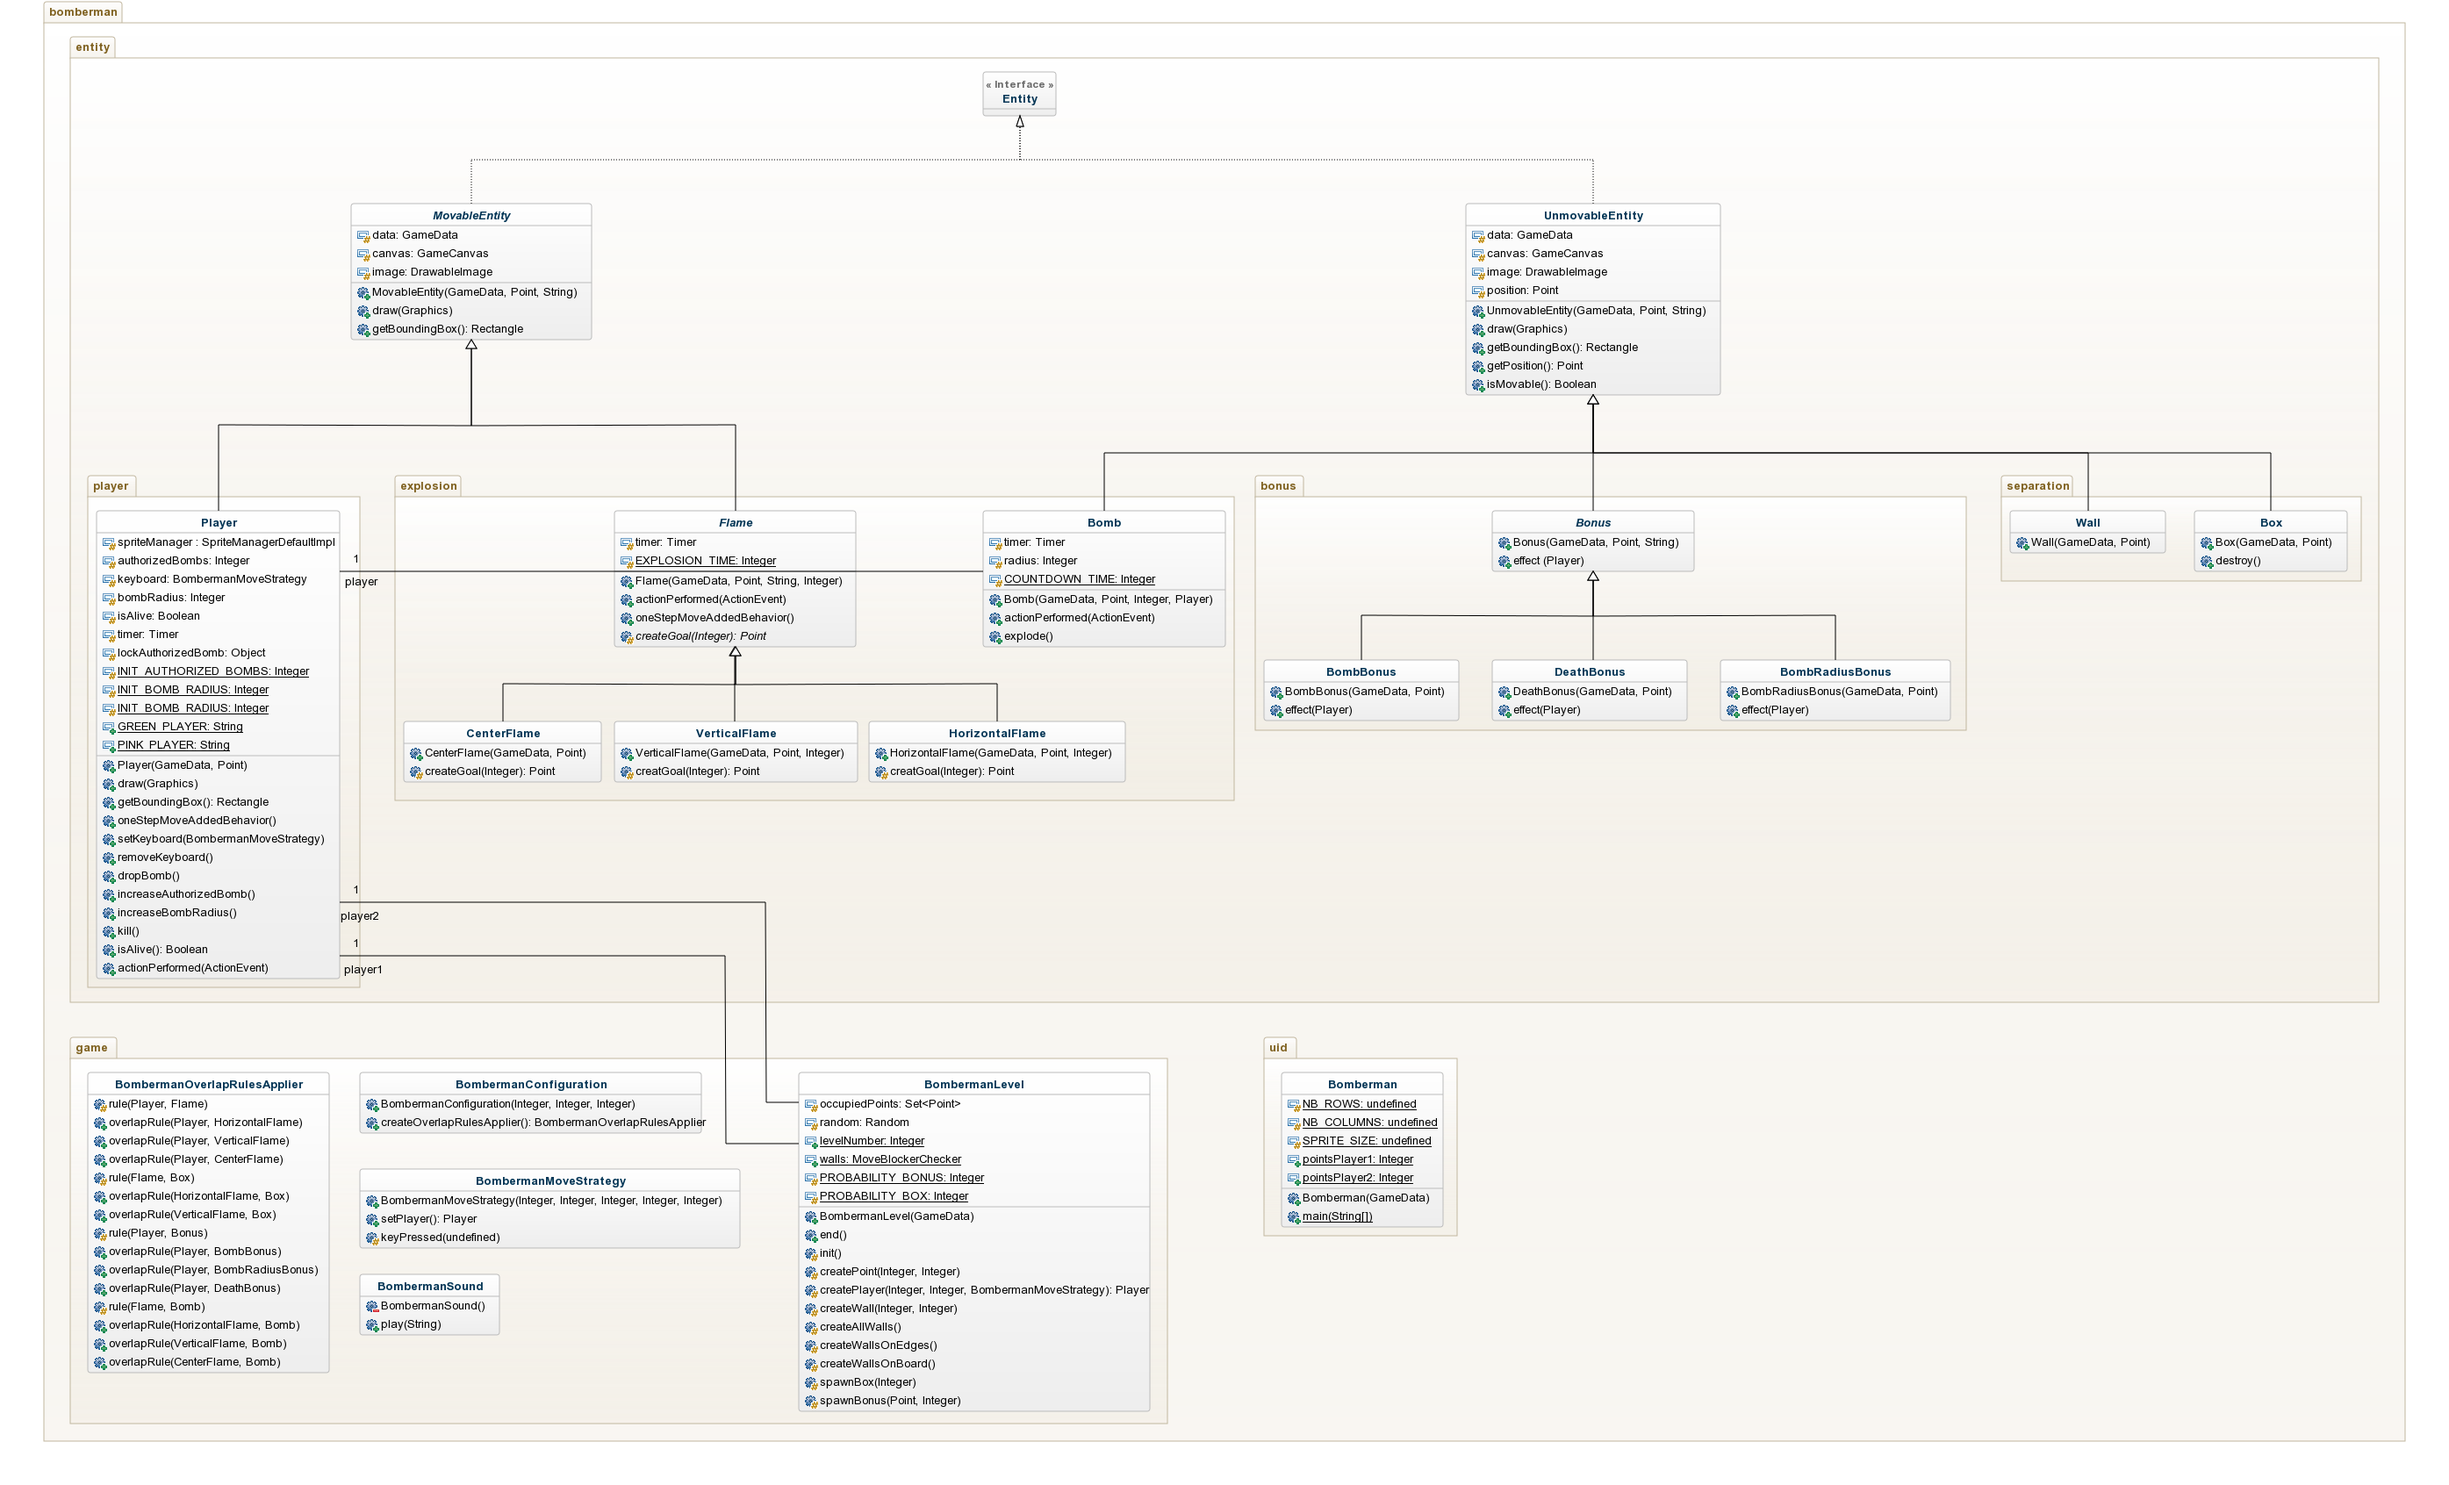
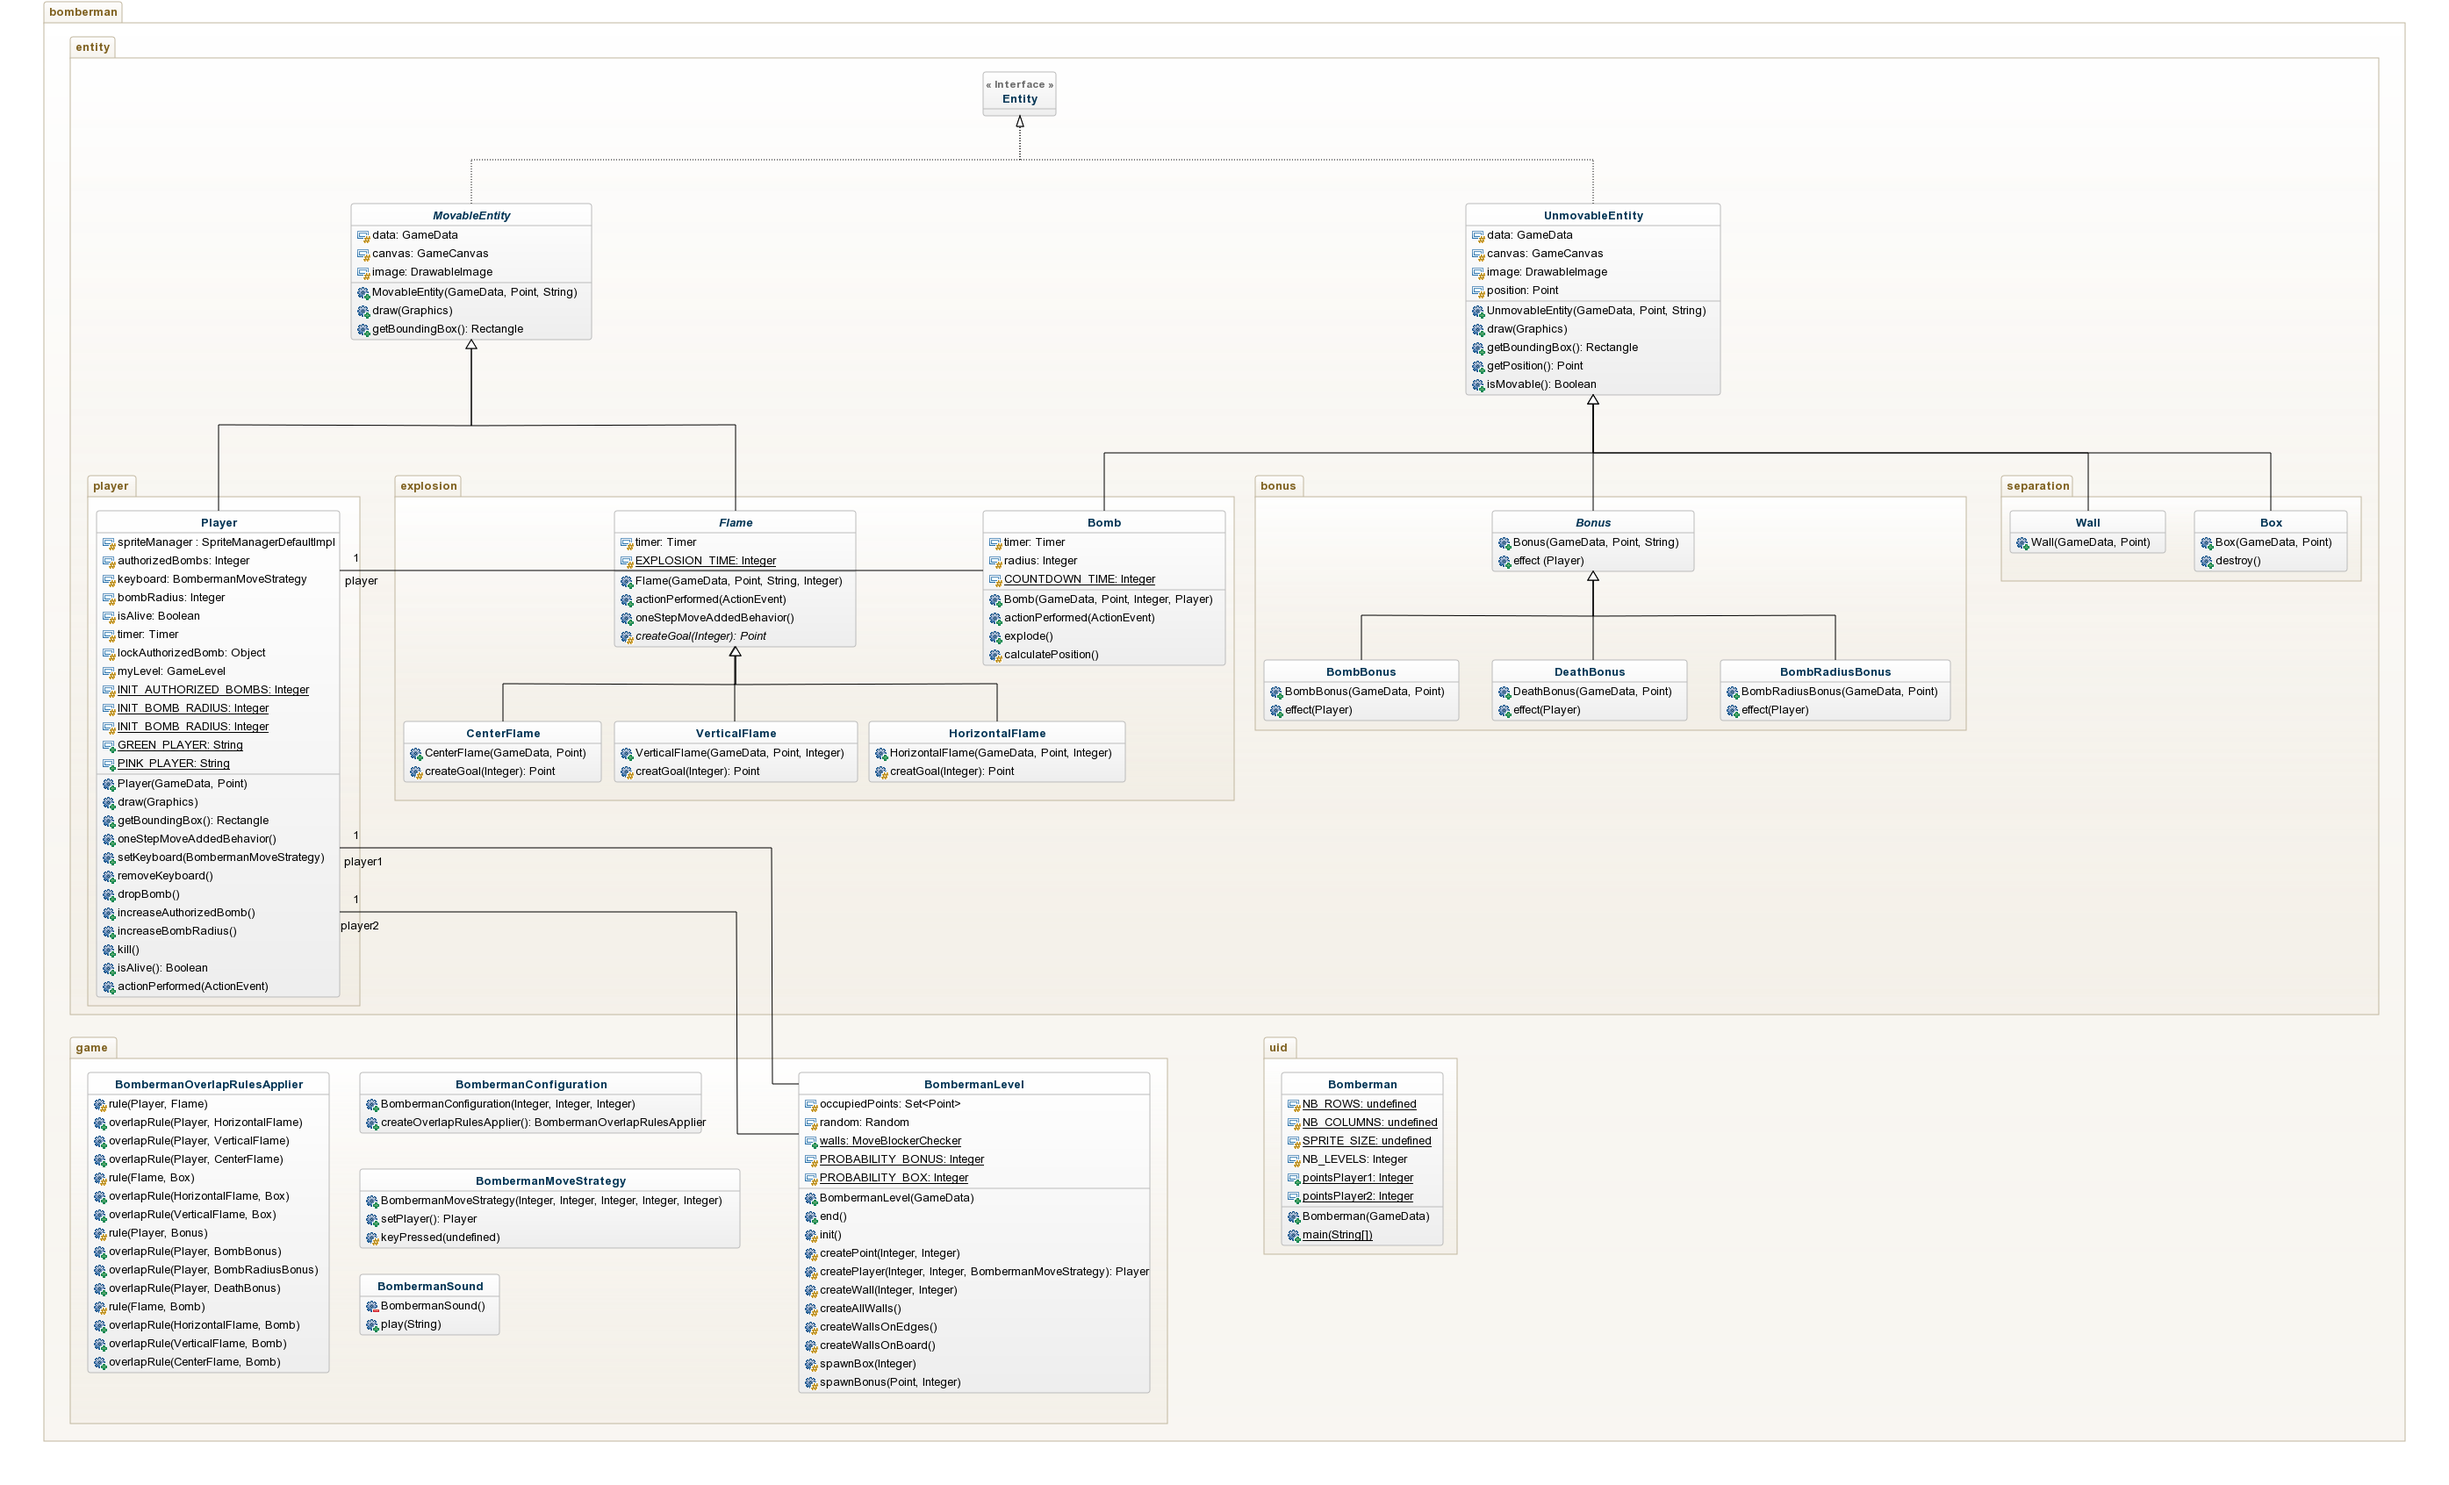
update UML

diff --git a/src/main/java/bomberman/uid/Bomberman.java b/src/main/java/bomberman/uid/Bomberman.java
@@ -18,6 +18,7 @@ public class Bomberman extends GameDefaultImpl {
 	protected static final int NB_ROWS = 21;
 	protected static final int NB_COLUMNS = 21;
 	protected static final int SPRITE_SIZE = 32;
+	protected static final int NB_LEVELS = 3;
 	
 	public static int pointsPlayer1 = 0;
 	public static int pointsPlayer2 = 0;
@@ -25,7 +26,7 @@ public class Bomberman extends GameDefaultImpl {
 	public Bomberman(GameData data) {
 		super(data);
 		BombermanSound.play("/sounds/GameSound.wav", true);
-		for (int i = 0; i < 10; i++) {
+		for (int i = 0; i < NB_LEVELS; i++) {
 			this.data.addLevel(new BombermanLevel(data));
 		}
 		
